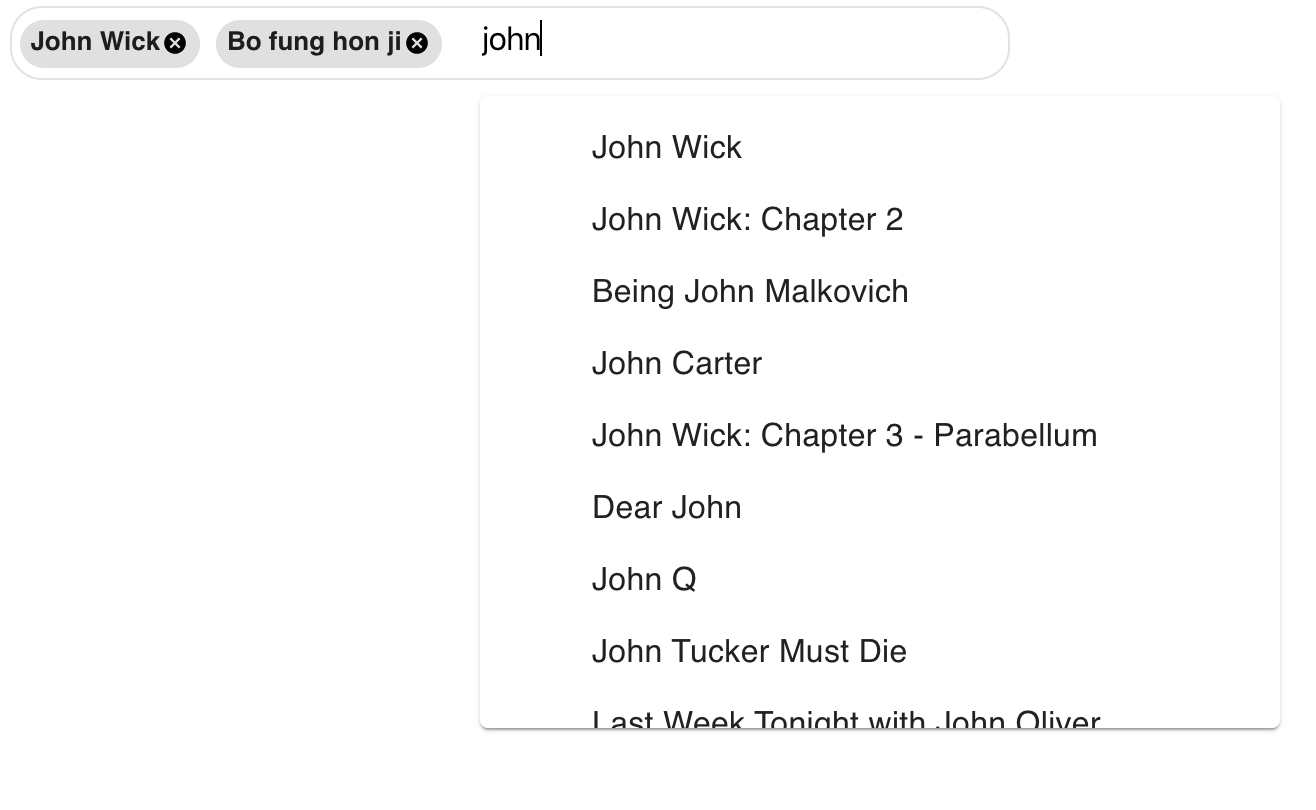
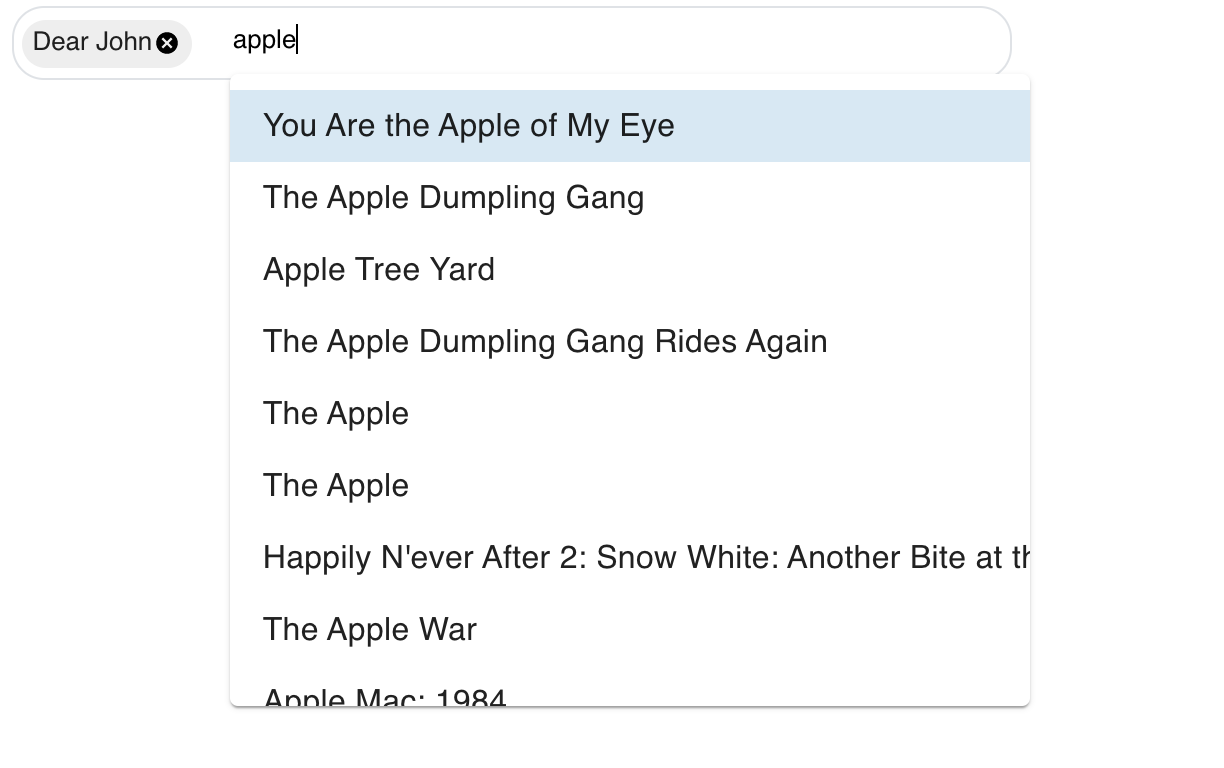
improve css styles

diff --git a/src/css/dropdownList.css b/src/css/dropdownList.css
@@ -27,22 +27,21 @@
 .dropdownList {
   overflow: auto;
   max-height: 40vh;
-  margin: 0;
+  margin-top: 0.1px;
+  margin: 0px;
   padding: 8px 0px;
   position: relative;
   display: block;
   box-sizing: inherit;
-  margin-block-start: 1em;
-  margin-block-end: 1em;
   margin-inline-start: 0px;
   margin-inline-end: 0px;
-  padding-inline-start: 40px;
   font-size: 1rem;
   font-family: "Roboto", "Helvetica", "Arial", sans-serif;
   font-weight: 400;
   line-height: 1.5;
   letter-spacing: 0.00938em;
   color: rgba(0, 0, 0, 0.87);
+  list-style: none;
   -webkit-font-smoothing: antialiased;
 }
 .dropdownList-item {
@@ -59,11 +58,14 @@
   -webkit-tap-highlight-color: transparent;
   box-sizing: inherit;
   text-align: -webkit-match-parent;
-  list-style: none;
   font-size: 1rem;
   font-family: "Roboto", "Helvetica", "Arial", sans-serif;
   font-weight: 400;
   line-height: 1.5;
   letter-spacing: 0.00938em;
   color: rgba(0, 0, 0, 0.87);
+}
+
+.dropdownList-item:hover {
+  background-color: #d5e8f4;
 }

diff --git a/src/css/pill.css b/src/css/pill.css
@@ -2,17 +2,19 @@
   height: 24px;
   display: inline-block;
   vertical-align: top;
-  margin: 3px;
+  margin: 0.25rem;
+  padding: 0.25em 0.4em;
   color: rgba(0, 0, 0, 0.87);
   border: none;
   cursor: default;
   font-size: 0.8125rem;
   font-family: "Roboto", "Helvetica", "Arial", sans-serif;
+  font-weight: 400;
   white-space: nowrap;
-  /* justify-content: center;
-  text-decoration: none; */
-  background-color: #e0e0e0;
+  background-color: #eeeeee;
   border-radius: 999em;
+  line-height: 1;
+  text-align: center;
 }
 .pill-btn {
   width: 15px;

diff --git a/src/components/pill.jsx b/src/components/pill.jsx
@@ -4,7 +4,7 @@ class Pill extends Component {
   state = {};
   render() {
     return (
-      <div className="badge badge-info m-1 pill">
+      <div className="pill">
         {this.props.text}
         <button
           className="pill-btn"

diff --git a/src/css/inputTextBox.css b/src/css/inputTextBox.css
@@ -8,6 +8,9 @@
   display: inline-block;
 }
 .inputTextBox-text {
+  font-size: 0.8125rem;
+  font-family: "Roboto", "Helvetica", "Arial", sans-serif;
+  font-weight: 400;
   resize: none;
   width: 300px;
   outline: none;
